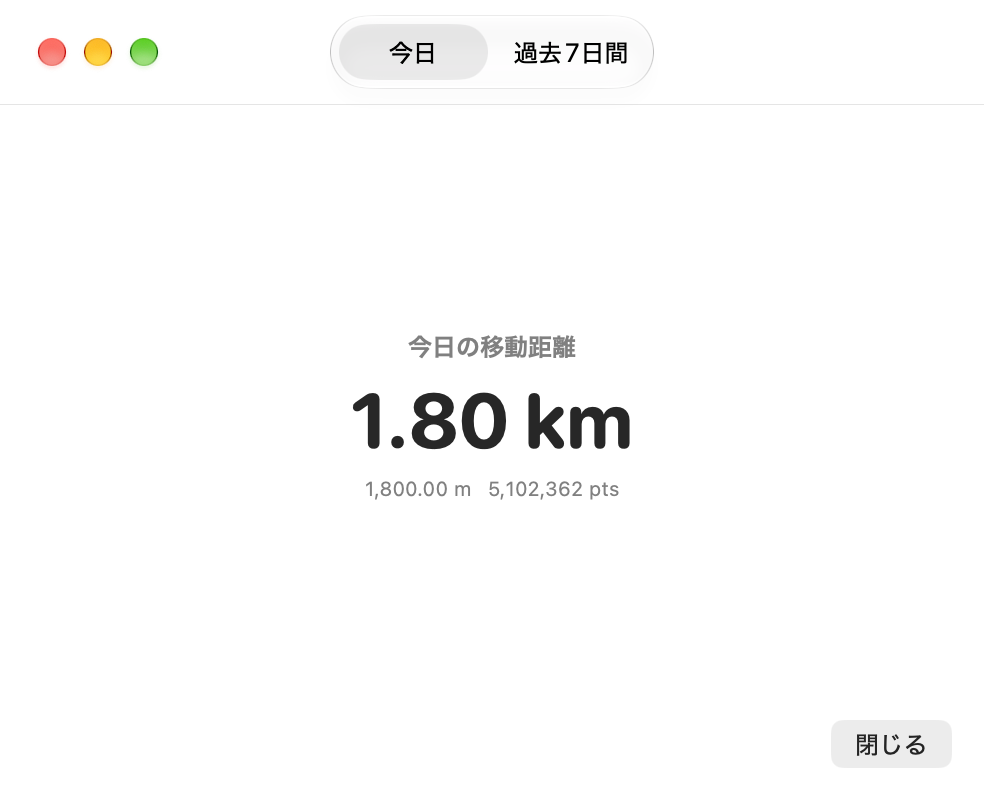
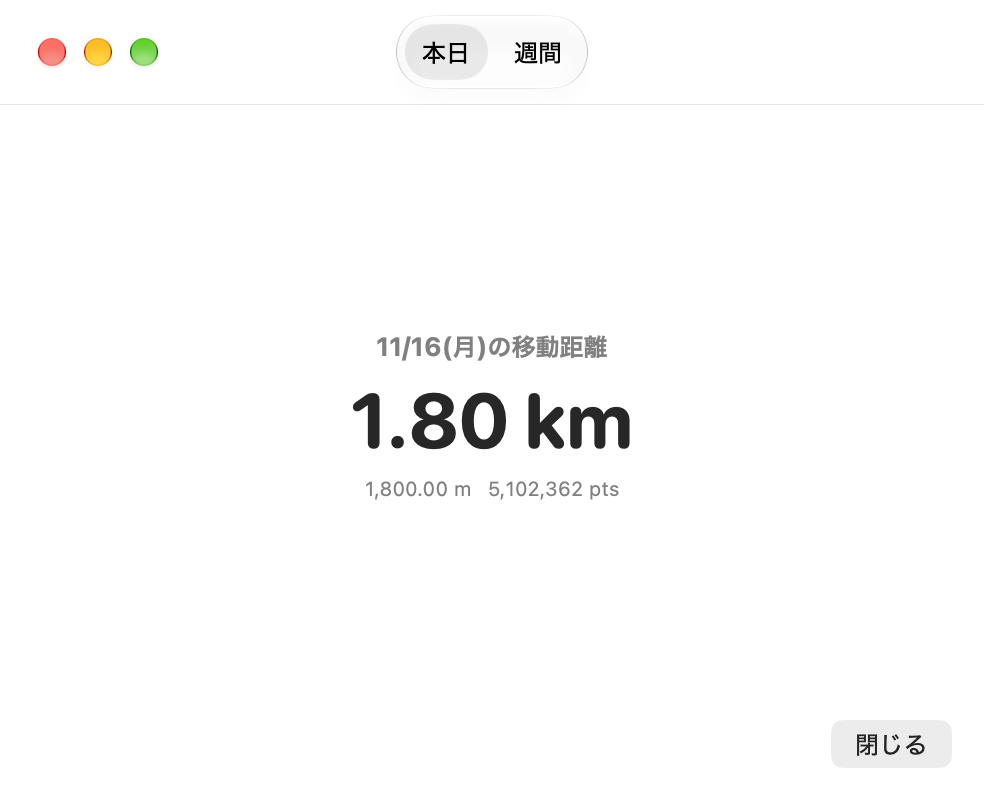
docs: READMEとスクリーンショットを週間表示に更新

Changed region(s): [[0.3659, 0.4062, 0.6098, 0.4688], [0.5183, 0.0312, 0.6402, 0.0938], [0.3354, 0.0312, 0.4878, 0.0938]]

diff --git a/README.md b/README.md
@@ -4,17 +4,17 @@
   <img src="cursor-walk/Assets.xcassets/AppIcon.appiconset/AppIcon-256.png" width="96" alt="CursorWalkのアプリアイコン">
 </p>
 
-カーソルの移動距離を記録するmacOS向けのメニューバーアプリ。今日の累計距離と直近7日間の推移、前の7日間との比較を確認できる。
+カーソルの移動距離を記録するmacOS向けのメニューバーアプリ。本日の累計距離と今週の日別推移、前週との比較を確認できる。
 
-|                                 今日                                 |                                 過去7日間                                  |
-| :------------------------------------------------------------------: | :------------------------------------------------------------------------: |
-| ![CursorWalkの今日の移動距離画面](docs/images/cursor-walk-today.png) | ![CursorWalkの過去7日間の移動距離画面](docs/images/cursor-walk-weekly.png) |
+|                                 本日                                 |                                 週間                                  |
+| :------------------------------------------------------------------: | :-------------------------------------------------------------------: |
+| ![CursorWalkの本日の移動距離画面](docs/images/cursor-walk-today.png) | ![CursorWalkの週間の移動距離画面](docs/images/cursor-walk-weekly.png) |
 
 ## 機能
 
 - マウス移動と左右ボタンでのドラッグを計測
-- 今日の移動距離を cm・m・km で表示し、ポイント数も併記
-- 今日を含む直近7日間の日別距離を、前の7日間と重ねた棒グラフで表示
+- 本日の移動距離を cm・m・km で表示し、ポイント数も併記
+- 日曜から土曜までの今週の日別距離を、前週の同じ曜日と重ねた棒グラフで表示
 - グラフにポインタを重ねると日付、距離、先週の距離、先週比を表示
 - 日別の記録を直近30日分ローカルに保存し、次回起動時に復元
 
@@ -36,8 +36,8 @@
 ## 使い方
 
 1. メニューバーのCursorWalkアイコンをクリックする。
-2. 「今日」タブで当日の累計移動距離を確認する。
-3. 「過去7日間」タブで日別の移動距離を比較する。
+2. 「本日」タブで当日の累計移動距離を確認する。
+3. 「週間」タブで、日曜始まりの今週と前週の日別移動距離を比較する。
 
 計測する間はアプリを起動しておく必要がある。
 
@@ -59,7 +59,7 @@
 ~/Library/Application Support/cursor-walk/daily-distances.json
 ```
 
-- 保持する履歴は今日を含む直近30日分である。グラフにはそのうち直近14日分を使用し、直近7日分を前の7日分と比較して表示する。
+- 保持する履歴は今日を含む直近30日分である。週間グラフでは今週と前週の記録を曜日ごとに比較して表示する。
 - 移動が止まってから約1秒後に自動保存する。
 - カーソルの座標履歴は保存しない。外部サーバーへの送信処理もない。
 
